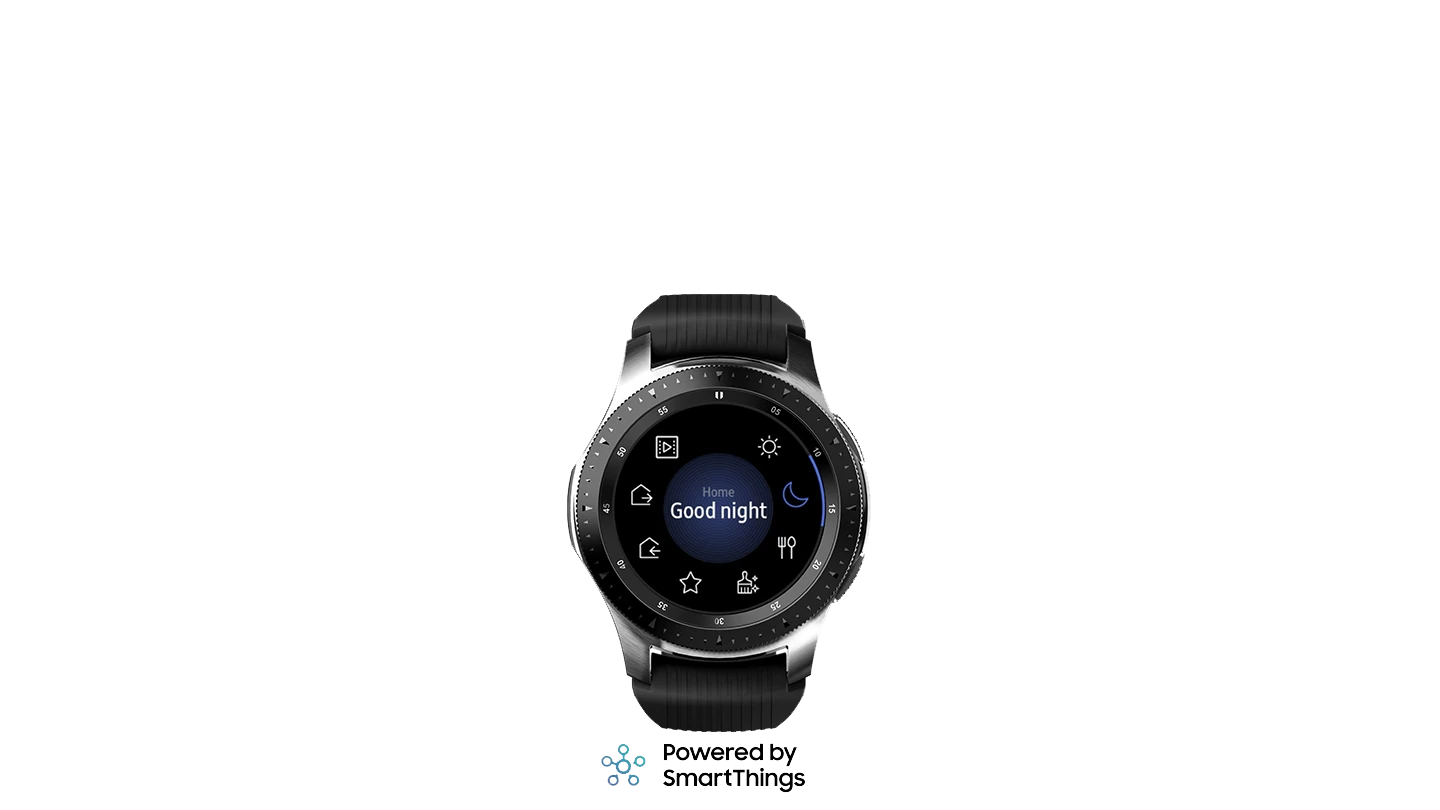
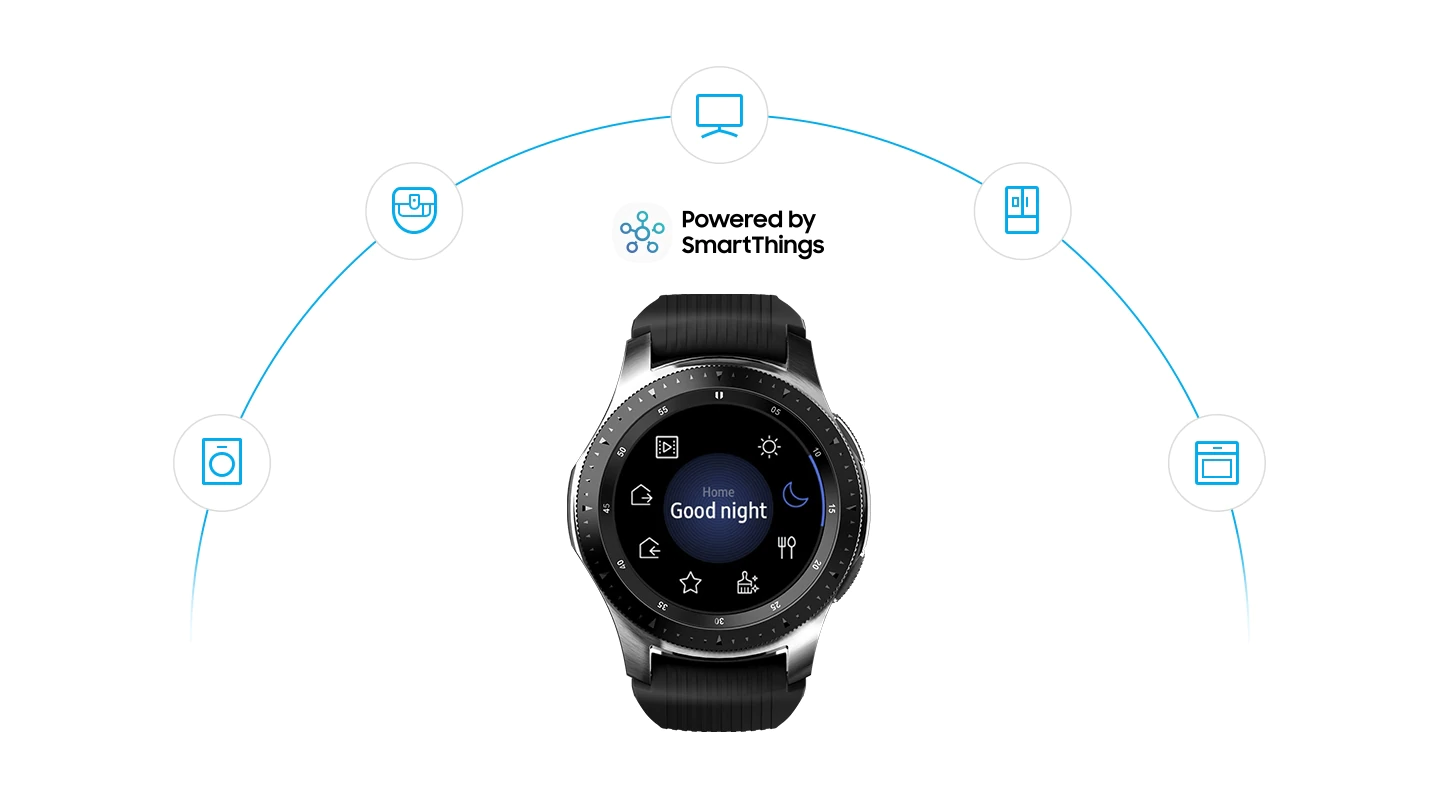
20200928
20200928

diff --git a/css/master-2.css b/css/master-2.css
@@ -21,7 +21,7 @@ nav>.container-fluid{
     top: -50px;
     left: -300px;
     border-radius: 100%;
-    background: radial-gradient(circle, rgba(235,193,180,1) 0%, rgba(249,194,194,1) 35%, rgba(255,179,179,1) 100%);
+    background: radial-gradient(circle, rgba(235,193,180,1) 0%, rgba(249,208,194,1) 35%, rgba(255,208,179,1) 100%);
     height: 120vh;
     width: 120vh;
     box-shadow: 0px 10px 15px rgba(0,0,0,0.3);
@@ -37,7 +37,7 @@ nav>.container-fluid{
     top: -50px;
     right: -300px;
     border-radius: 100%;
-    background: radial-gradient(circle, rgba(238,238,238,1) 0%, rgba(231,231,231,1) 35%, rgba(189,189,189,1) 100%);
+    background: radial-gradient(circle, rgb(129, 129, 129) 0%, rgb(109, 109, 109) 35%, rgb(75, 75, 75) 100%);
     height: 120vh;
     width: 120vh;
     box-shadow: 00px 10px 15px rgba(0,0,0,0.3);
@@ -61,8 +61,22 @@ nav>.container-fluid{
 #section01>.container-fluid{
     padding: 0;
 }
-
-
+.ani{
+    animation-name: blink;
+    animation-iteration-count: infinite;
+    animation-duration: 2s;
+}
+@keyframes blink{
+    0%  {opacity: 0;}
+    50% {opacity: 1;}
+    100%{opacity: 0;}
+}
+.iot{
+    background: url(../images/sec-feature-galaxy-watch-r800-112797100-1.jpg);
+    background-repeat: no-repeat;
+    background-position: center;
+    background-size: 79%;
+}
 .navbar{
     
     font-size: 16px;

diff --git a/index.html b/index.html
@@ -220,8 +220,8 @@
             </p>
         <div class="container-fluid">
             <div class="row">
-                <div class="col-sm-12">
-                    <img src="images/sec-feature-galaxy-watch-r800-112797100.webp" alt="">
+                <div class="col-sm-12 iot">
+                    <img src="images/sec-feature-galaxy-watch-r800-112797100-1.png" alt="" class="ani">
                 </div>
             </div>
         </div>
